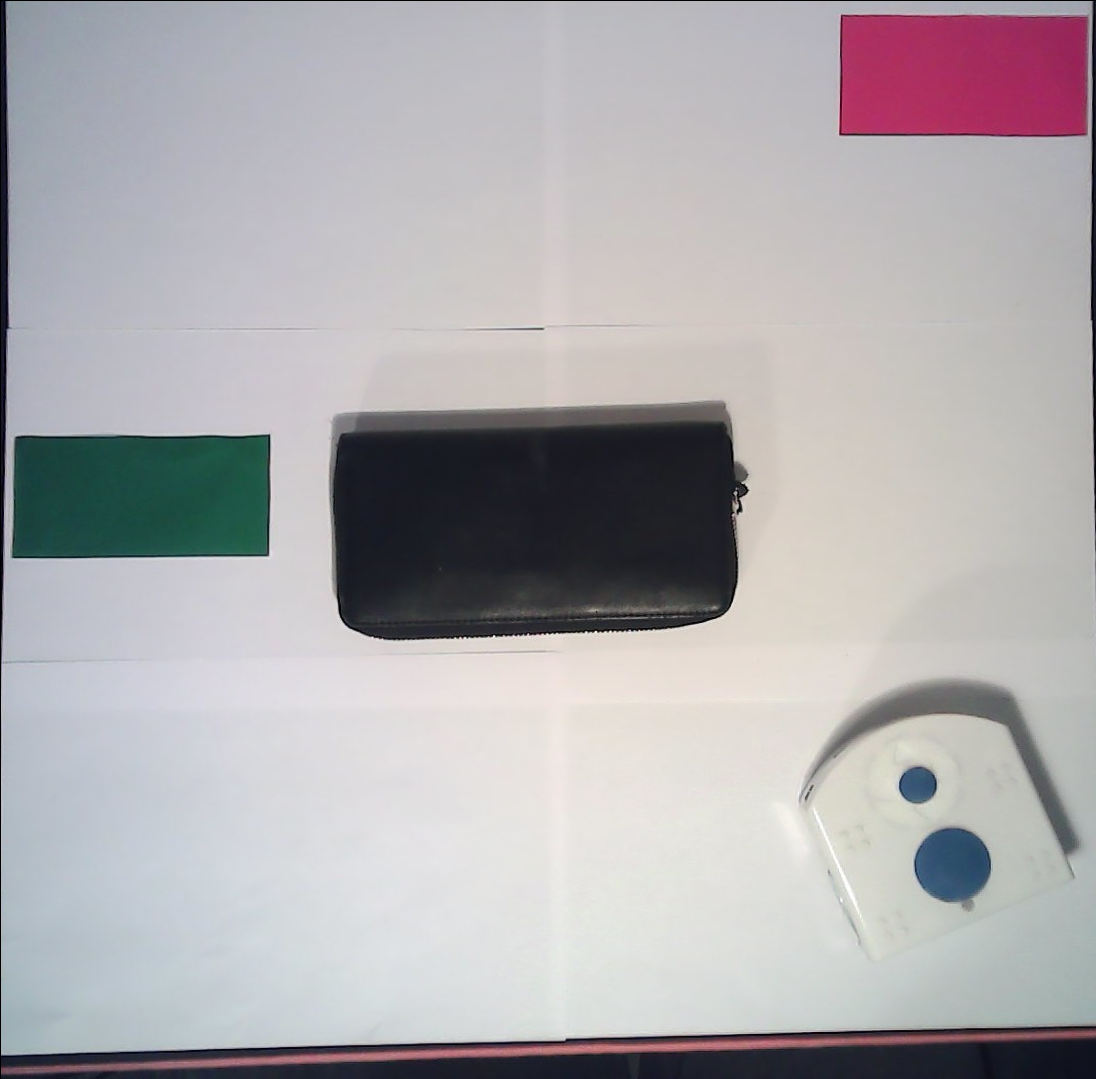
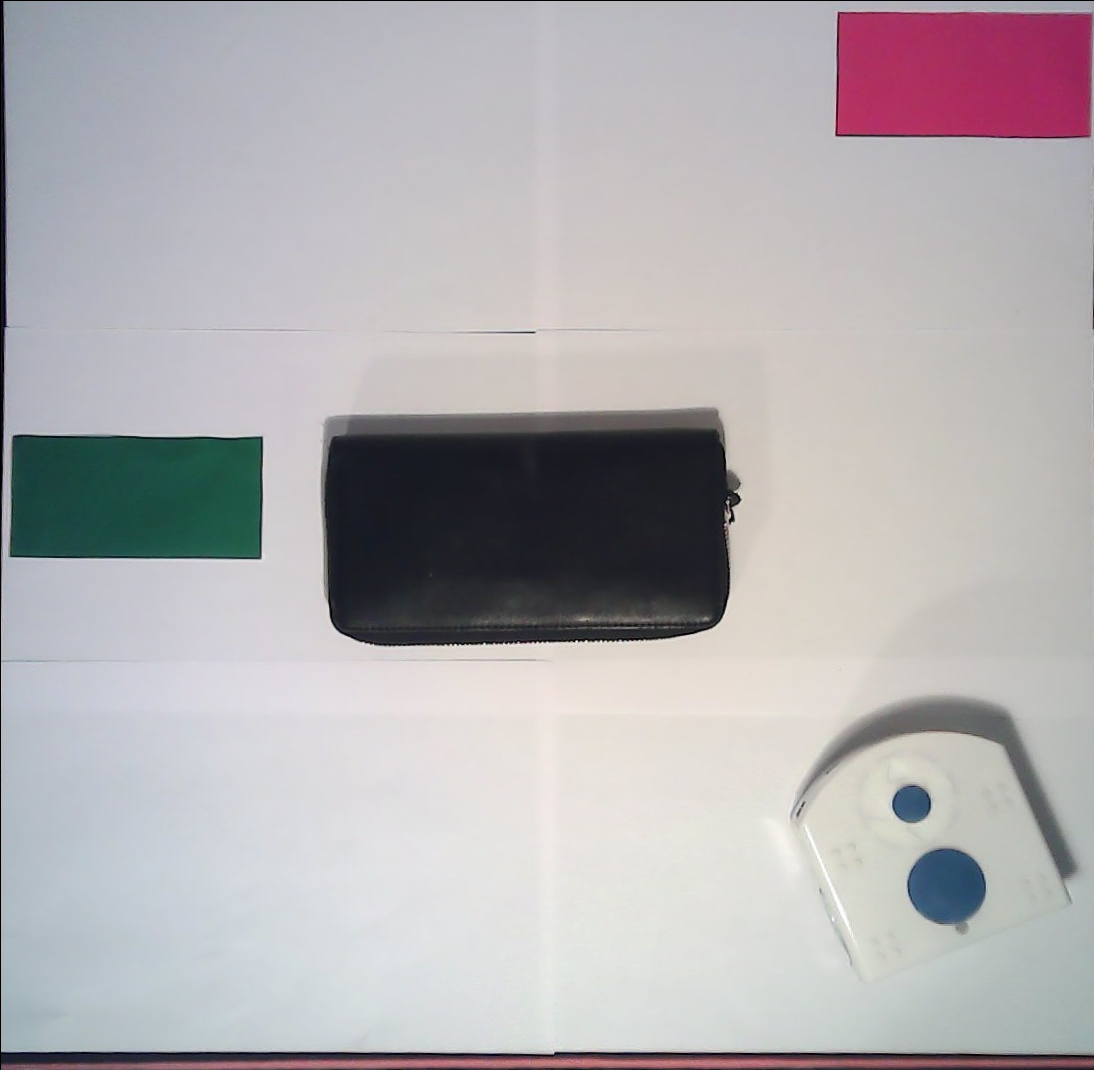
ola

diff --git a/vision_agent.py b/vision_agent.py
@@ -20,8 +20,13 @@ class Vision_Agent:
         self.converter = 0
         # self.cam = cv2.VideoCapture(0)
         # ret, frame = cam.read() 
-        self.image = cv2.imread('Parcours.png')
+        self.image = cv2.imread('parcours2.jpeg')
+        self.resize()
         self.hsv = cv2.cvtColor(self.image, cv2.COLOR_BGR2HSV)
+        self.get_first_image_cam(self.image)
+        self.hsv = cv2.cvtColor(self.image, cv2.COLOR_BGR2HSV)
+        
+        
         self.angle = 0
         self.center_robot = [0,0]
         self.parcours = np.zeros((50,50), np.uint8)
@@ -31,11 +36,22 @@ class Vision_Agent:
         self.r_in_pix = 0
         self.r_in_real = 5
         
-        
+    def resize(self):
+        scale_percent = 30 # percent of original size
+        width = int(self.image.shape[1] * scale_percent / 100)
+        height = int(self.image.shape[0] * scale_percent / 100)
+        dim = (width, height)
+        # resize image
+        self.image = cv2.resize(self.image, dim, interpolation = cv2.INTER_AREA)
         
     def read_image(self):
-        self.image = cv2.imread('Parcours.png')
+        self.image = cv2.imread('parcours2.jpeg')
+        self.resize()
         self.hsv = cv2.cvtColor(self.image, cv2.COLOR_BGR2HSV)
+        self.get_image_cam(self.image)
+        self.hsv = cv2.cvtColor(self.image, cv2.COLOR_BGR2HSV)
+        
+       
         
     def mask_thresh(self,image,thresh_low,thresh_high):
         lower_thresh = np.array(thresh_low)
@@ -44,15 +60,23 @@ class Vision_Agent:
         return mask_hsv
        
     
-    
+    def redefine_mask(self,mask):
+        kernel = np.ones((5,5),np.uint8)
+        mask = cv2.morphologyEx(mask, cv2.MORPH_CLOSE, kernel)
+        kernel = np.ones((7,7),np.uint8)
+        mask = cv2.morphologyEx(mask, cv2.MORPH_OPEN, kernel)
+        return mask
+        
     def get_robot(self):
         
-        mask_blue = self.mask_thresh(self.hsv, [90,10,10], [130,255,255])
-        circles = cv2.HoughCircles(mask_blue, cv2.HOUGH_GRADIENT,2,30, param1=50, param2=30 , minRadius=0,maxRadius=0)
+        mask_blue = self.mask_thresh(self.hsv, [100,37,100], [134,255,150])
+        mask_blue = self.redefine_mask(mask_blue)
+        circles = cv2.HoughCircles(mask_blue, cv2.HOUGH_GRADIENT,2,10, param1=50, param2=15 , minRadius=0,maxRadius=30)
         
         detected_circles = np.uint16(np.around(circles))
         center_points = []
         rayons=[]
+        # self.parcours = mask_blue
         
         for (x,y,r) in detected_circles[0,:]:
             cv2.circle(self.image,(x,y),r,(0,255,0),3)
@@ -81,8 +105,10 @@ class Vision_Agent:
     def get_obstacles(self):
         self.parcours = np.zeros((50,50), np.uint8)
         
-        mask_black = self.mask_thresh(self.hsv, [0,0,0], [10,10,10])
-
+        mask_black = self.mask_thresh(self.hsv, [0,0,0], [180,255,50])
+        mask_black = self.redefine_mask(mask_black)
+        kernel = np.ones((50,50),np.uint8)
+        mask_black = cv2.morphologyEx(mask_black, cv2.MORPH_CLOSE, kernel)
         Canny= cv2.Canny(mask_black,10,50)
         
         #Find my contours
@@ -97,14 +123,17 @@ class Vision_Agent:
          
         kernel = np.ones((1,1),np.uint8) 
         self.parcours = cv2.dilate(self.parcours,kernel,iterations = 1)/255
-            
+        
     def get_objectives(self):
         # define range of objective colors in HSV
-        mask_red = self.mask_thresh(self.hsv, [0,70,50], [10,255,255])
-        mask_green = self.mask_thresh(self.hsv, [40,40,40], [70,255,255])
+        mask_red = self.mask_thresh(self.hsv, [150,70,50], [190,255,255])
+        mask_green = self.mask_thresh(self.hsv, [40,40,40], [100,255,255])
+        mask_green = self.redefine_mask(mask_green)
+        mask_red = self.redefine_mask(mask_red)
+        
         
         Canny=cv2.Canny(mask_green,10,50)
-        
+        # self.parcours = mask_red
         #Find my contours
         contours =cv2.findContours(Canny,cv2.RETR_LIST,cv2.CHAIN_APPROX_SIMPLE)[1]
         
@@ -112,26 +141,29 @@ class Vision_Agent:
             
             x,y,w,h=cv2.boundingRect(cnt)
             M = cv2.moments(cnt)
-            cX = int(M["m10"] / M["m00"])
-            cY = int(M["m01"] / M["m00"])
-            cv2.circle(self.image, (cX, cY), 7, (255, 255, 255), -1)
-            self.objective_green = (cX,cY)
+            # cX = int(M["m10"] / M["m00"])
+            # cY = int(M["m01"] / M["m00"])
+            # cv2.circle(self.image, (cX, cY), 7, (255, 255, 255), -1)
+            cv2.circle(self.image, (int(x+w/2), int(y+h/2)), 7, (255, 255, 255), -1)
+
+            self.objective_green = (x+w/2, y+h/2)
             cv2.rectangle(self.image,(x,y),(x+w,y+h),(0,0,0),2)
     
         Canny=cv2.Canny(mask_red,10,50)
         
         #Find my contours
         contours =cv2.findContours(Canny,cv2.RETR_LIST,cv2.CHAIN_APPROX_SIMPLE)[1]
-    
+        # print(contours)
         
         for cnt in contours:
             
             x,y,w,h=cv2.boundingRect(cnt)
-            M = cv2.moments(cnt)
-            cX = int(M["m10"] / M["m00"])
-            cY = int(M["m01"] / M["m00"])
-            cv2.circle(self.image, (cX, cY), 7, (255, 255, 255), -1)
-            self.objective_red = (cX,cY)
+            
+            # M = cv2.moments(cnt)
+            # cX = int(M["m10"] / M["m00"])
+            # cY = int(M["m01"] / M["m00"])
+            cv2.circle(self.image, (int(x+w/2), int(y+h/2)), 7, (255, 255, 255), -1)
+            self.objective_red = (x+w/2, y+h/2)
             cv2.rectangle(self.image,(x,y),(x+w,y+h),(0,0,0),2)
             
     def get_pix_2_real(self):
@@ -146,19 +178,161 @@ class Vision_Agent:
         self.get_robot()
         self.get_objectives()
         self.get_obstacles()
-         
+    
+    def get_first_image_cam(self, image):
+        mask = self.mask_thresh(self.hsv, [0,0,50], [190,255,255])
+        mask_bg = np.zeros((len(mask) + 1000, len(mask[0]) + 1000),np.uint8)
+        mask_bg[500:len(mask_bg)-500,500:len(mask_bg[0])-500]=mask
+        kernel = np.ones((3,3),np.uint8)
+        mask_bg = cv2.morphologyEx(mask_bg, cv2.MORPH_CLOSE, kernel)
+        kernel = np.ones((50,50),np.uint8)
+        mask_bg = cv2.morphologyEx(mask_bg, cv2.MORPH_OPEN, kernel)
+        kernel = np.ones((150,150),np.uint8)
         
+        mask_bg = cv2.morphologyEx(mask_bg, cv2.MORPH_CLOSE, kernel)
+        mask = mask_bg[500:len(mask_bg)-500,500:len(mask_bg[0])-500]
+        
+        corners = np.int0(cv2.goodFeaturesToTrack(mask_bg, 4, 0.1, 100))
+        polygon=[]
+        for i in corners:
+            x,y = i.ravel()
+            polygon.append([x-500,y-500])
+        
+        polygon=[polygon]
+        res = cv2.bitwise_and(image,image, mask= mask)
+        
+        # First find the minX minY maxX and maxY of the polygon
+        self.minX = image.shape[1]
+        self.maxX = -1
+        self.minY = image.shape[0]
+        self.maxY = -1
+        # print(polygon[0][0])
+        for point in polygon[0]:
+        
+            x = point[0]
+            y = point[1]
+        
+            if x < self.minX:
+                self.minX = x
+            if x > self.maxX:
+                self.maxX = x
+            if y < self.minY:
+                self.minY = y
+            if y > self.maxY:
+                self.maxY = y
+        
+        register = polygon[0][1]
+        polygon[0][1] = polygon[0][0]
+        polygon[0][0] = register
+        # Go over the points in the image if thay are out side of the emclosing rectangle put zero
+        # if not check if thay are inside the polygon or not
+        self.polygon = polygon
+        
+        cropedImage = np.zeros_like(image)
+        mask_im = np.zeros((len(image),len(image[0])),np.uint8)
+        for y in range(0,image.shape[0]):
+            for x in range(0, image.shape[1]):
+        
+                if x < self.minX or x > self.maxX or y < self.minY or y > self.maxY:
+                    continue
+        
+                if cv2.pointPolygonTest(np.asarray(polygon[0]),(x,y),False) >= 0:
+                    cropedImage[y, x, 0] = image[y, x, 0]
+                    cropedImage[y, x, 1] = image[y, x, 1]
+                    cropedImage[y, x, 2] = image[y, x, 2]
+                    mask_im[y,x] = 1
+                    
+        # Now we can crop again just the envloping rectangle
+        self.mask_im = mask_im
+        finalImage = cropedImage[self.minY:self.maxY,self.minX:self.maxX]
+        # print(cropedImage)
+        
+        
+        polygonStrecth = np.float32([[0,0],[finalImage.shape[1],0],[finalImage.shape[1],finalImage.shape[0]],[0,finalImage.shape[0]]])
+        
+        # Convert the polygon corrdanite to the new rectnagle
+        polygonForTransform = np.zeros_like(polygonStrecth)
+        i = 0
+        for point in polygon[0]:
+        
+            x = point[0]
+            y = point[1]
+        
+            newX = x - self.minX
+            newY = y - self.minY
+        
+            polygonForTransform[i] = [newX,newY]
+            i += 1
+        
+        
+        # Find affine transform
+        M = cv2.getPerspectiveTransform(np.asarray(polygonForTransform).astype(np.float32), np.asarray(polygonStrecth).astype(np.float32))
+        self.M= M
+        
+        # Warp one image to the other
+        warpedImage = cv2.warpPerspective(finalImage, M, (finalImage.shape[1], finalImage.shape[0]))
+        # 180 degrees
+        angle180 = 180
+        scale = 1.0
+        (h, w) = warpedImage.shape[:2]
+        center = (w / 2, h / 2)
+        M = cv2.getRotationMatrix2D(center, angle180, scale)
+        warpedImage = cv2.warpAffine(warpedImage, M, (w, h))
+        self.image = warpedImage
+    
+    def get_image_cam(self, image):
+        
+        polygon = self.polygon
+        cropedImage = np.zeros_like(image)
+        
+        f = time.time()
+        # for y in range(0,image.shape[0]):
+        #     for x in range(0, image.shape[1]):
+        
+        #         if x < self.minX or x > self.maxX or y < self.minY or y > self.maxY:
+        #             continue
+        
+        #         if cv2.pointPolygonTest(np.asarray(polygon[0]),(x,y),False) >= 0:
+        #             cropedImage[y, x, 0] = image[y, x, 0]
+        #             cropedImage[y, x, 1] = image[y, x, 1]
+        #             cropedImage[y, x, 2] = image[y, x, 2]
+                    
+        # get first masked value (foreground)
+        cropedImage = cv2.bitwise_or(image, image, mask=self.mask_im)
+        
+        # Now we can crop again just the envloping rectangle
+        finalImage = cropedImage[self.minY:self.maxY,self.minX:self.maxX]
+        
+        M = self.M
+        # Warp one image to the other
+        warpedImage = cv2.warpPerspective(finalImage, M, (finalImage.shape[1], finalImage.shape[0]))
+        # 180 degrees
+        angle180 = 180
+        scale = 1.0
+        (h, w) = warpedImage.shape[:2]
+        center = (w / 2, h / 2)
+        M = cv2.getRotationMatrix2D(center, angle180, scale)
+        warpedImage = cv2.warpAffine(warpedImage, M, (w, h))
+        self.image = warpedImage
+  
+start = time.time()      
 Vision = Vision_Agent()
-start = time.time()
+
+j=time.time()-start
+# print(j)
+f = time.time()
 Vision.read_image()
+j=time.time()-f
+print(j)
 Vision.get_robot()
 Vision.get_objectives()
 Vision.get_obstacles()
-# print(time.time()-start)
+
 # print(Vision.parcours)
-print(Vision.get_grid_2_real())
+# print(Vision.get_grid_2_real())
 while(True):
     # Vision.read_image()
+    
     cv2.imshow('Image', Vision.image)   
     cv2.imshow('Parcours', Vision.parcours)   
     if cv2.waitKey(1) == ord("q"):

diff --git a/VisionNoModules/GetPaper.py b/VisionNoModules/GetPaper.py
@@ -11,8 +11,14 @@ import numpy as np
 
 # Read a image
 I = cv2.imread('parcours2.jpeg')
-hsv = cv2.cvtColor(I, cv2.COLOR_BGR2HSV)
 
+scale_percent = 30 # percent of original size
+width = int(I.shape[1] * scale_percent / 100)
+height = int(I.shape[0] * scale_percent / 100)
+dim = (width, height)
+# resize image
+I = cv2.resize(I, dim, interpolation = cv2.INTER_AREA)
+hsv = cv2.cvtColor(I, cv2.COLOR_BGR2HSV)
 # define range of white color in HSV
 lower_blue = np.array([0,0,50])
 upper_blue = np.array([255,255,255])
@@ -21,29 +27,25 @@ upper_blue = np.array([255,255,255])
 
 
 # Threshold the HSV image to get only blue colors
-mask = cv2.inRange(hsv, lower_blue, upper_blue)
-kernel = np.ones((150,150),np.uint8)
-mask = cv2.morphologyEx(mask, cv2.MORPH_OPEN, kernel)
-kernel = np.ones((350,350),np.uint8)
-mask = cv2.morphologyEx(mask, cv2.MORPH_CLOSE, kernel)
 
-# dest = cv2.cornerHarris(mask, 5, 31, 0.1)
-# dest = cv2.dilate(dest, None)
-  
-# Reverting back to the original image,
-# with optimal threshold value
-# I[dest > 0.01 * dest.max()]=[0, 0, 255]
-mask_bg = np.zeros((len(mask) + 4, len(mask[0]) + 4),np.uint8)
-mask_bg[2:len(mask_bg)-2,2:len(mask_bg[0])-2]=mask
-corners = np.int0(cv2.goodFeaturesToTrack(mask_bg, 4, 0.1, 1000))
-print(len(corners))
+mask = cv2.inRange(hsv, lower_blue, upper_blue)
+mask_bg = np.zeros((len(mask) + 1000, len(mask[0]) + 1000),np.uint8)
+mask_bg[500:len(mask_bg)-500,500:len(mask_bg[0])-500]=mask
+kernel = np.ones((3,3),np.uint8)
+mask_bg = cv2.morphologyEx(mask_bg, cv2.MORPH_CLOSE, kernel)
+kernel = np.ones((50,50),np.uint8)
+mask_bg = cv2.morphologyEx(mask_bg, cv2.MORPH_OPEN, kernel)
+kernel = np.ones((150,150),np.uint8)
+
+mask_bg = cv2.morphologyEx(mask_bg, cv2.MORPH_CLOSE, kernel)
+mask = mask_bg[500:len(mask_bg)-500,500:len(mask_bg[0])-500]
+
+corners = np.int0(cv2.goodFeaturesToTrack(mask_bg, 4, 0.1, 100))
 polygon=[]
 for i in corners:
     x,y = i.ravel()
-    polygon.append([x-2,y-2])
-    # I = cv2.circle(I, (x-2,y-2), radius=0, color=(0, 0, 255), thickness=100)
-# Bitwise-AND mask and original image
-print(polygon)
+    polygon.append([x-500,y-500])
+
 polygon=[polygon]
 res = cv2.bitwise_and(I,I, mask= mask)
 
@@ -52,7 +54,7 @@ minX = I.shape[1]
 maxX = -1
 minY = I.shape[0]
 maxY = -1
-print(polygon[0][0])
+print(polygon[0])
 for point in polygon[0]:
 
     x = point[0]
@@ -86,7 +88,6 @@ for y in range(0,I.shape[0]):
 
 # Now we can crop again just the envloping rectangle
 finalImage = cropedImage[minY:maxY,minX:maxX]
-
 
 
 
@@ -126,6 +127,6 @@ while(True):
     cv2.imshow('Mask', mask)
     cv2.imshow('WarpedImage', cropedImage)
     if cv2.waitKey(1) == ord("q"):
-       break
+        break
    
 cv2.destroyAllWindows()
